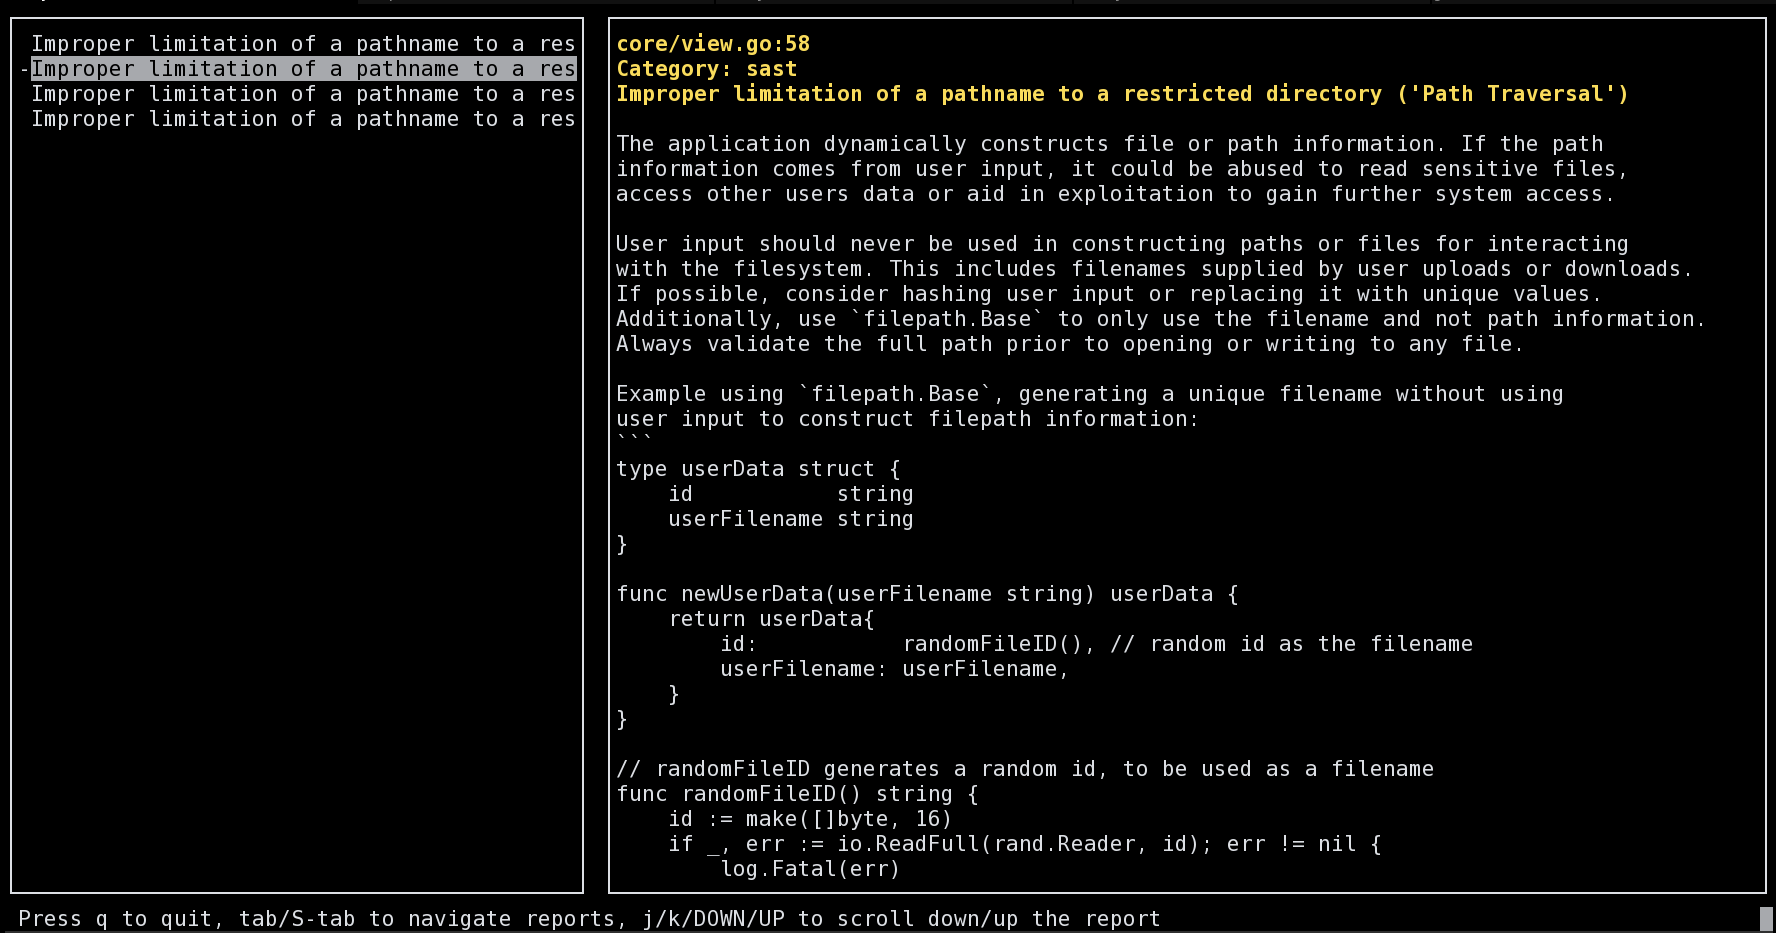
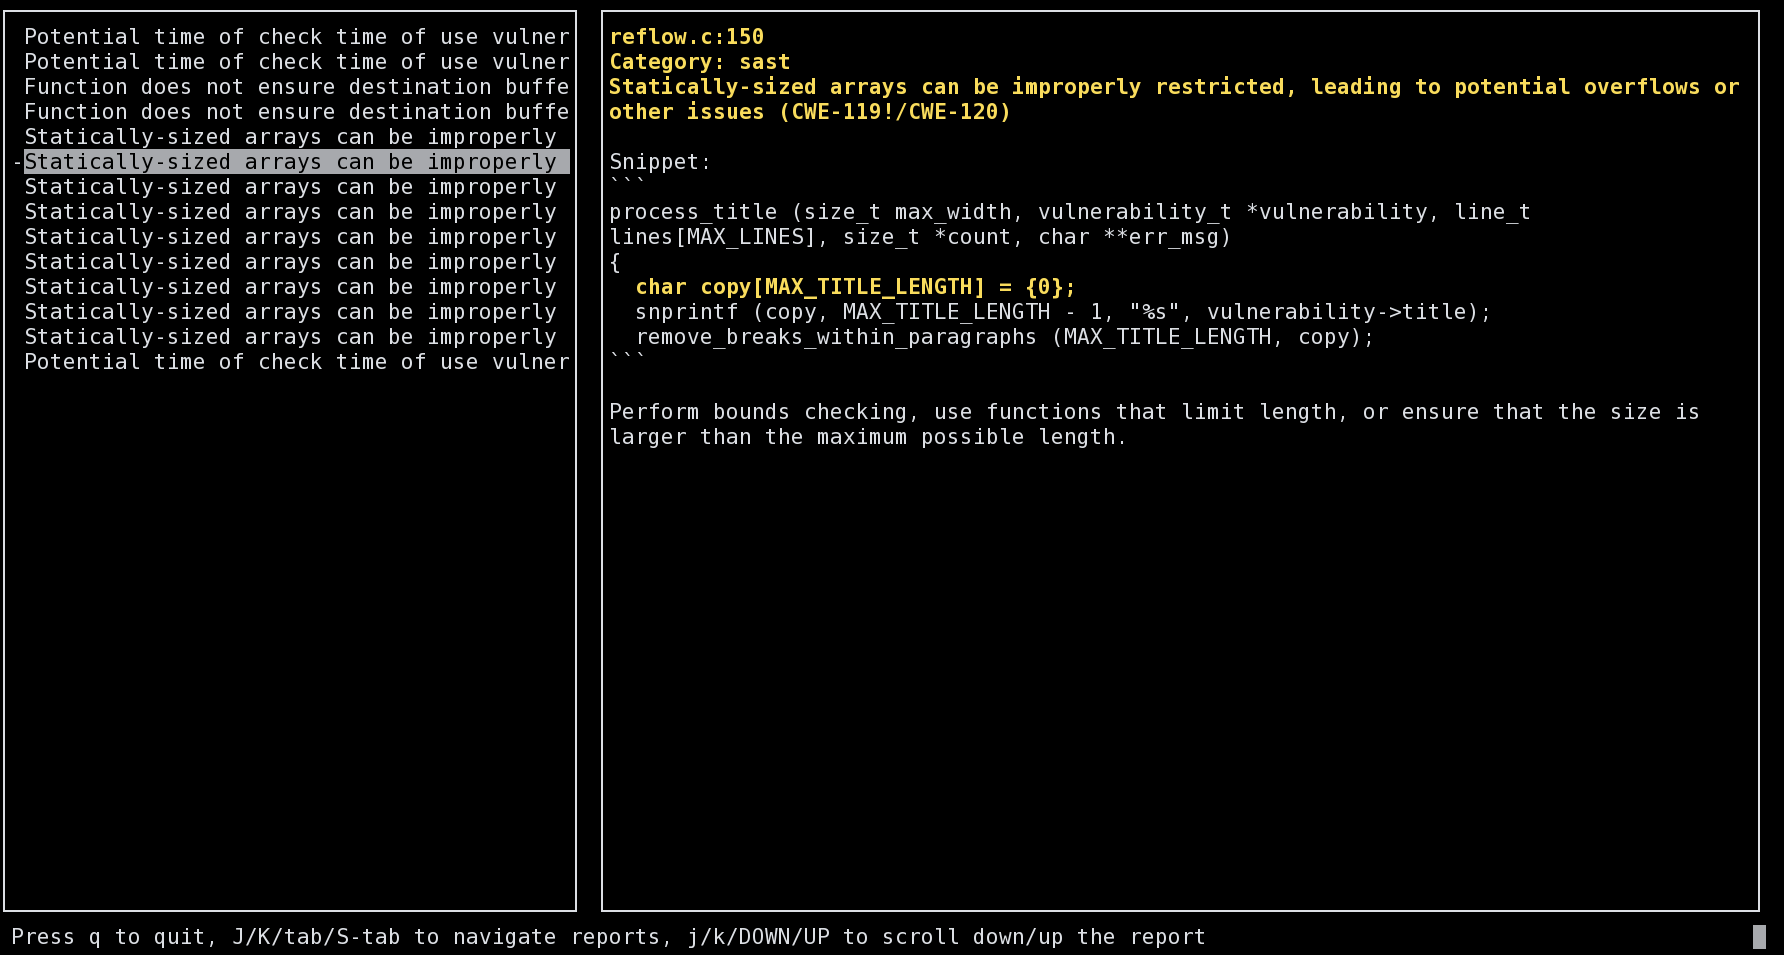
UPDATE documentation
Mention the snippet feature and update the screenshot.

diff --git a/main.c b/main.c
@@ -13,7 +13,10 @@ usage (const char *progname)
 Brings a ncurses interface to inspect Gitlab's SAST reports. \n\
 \n\
 You must provide a path to a downloaded JSON report. \n\
-  ", progname);
+If you execute %s within the analyzed codebase's directory, \n\
+you will see snippets of the code related to each report. You \n\
+must be at the root of that directory for this to happen. \n\
+  ", progname, progname);
 }
 
 int

diff --git a/README.md b/README.md
@@ -41,6 +41,9 @@ sasty [-h|--help] <file>
 Brings a ncurses interface to inspect Gitlab's SAST reports. 
 
 You must provide a path to a downloaded JSON report. 
+If you execute sasty within the analyzed codebase's directory, 
+you will see snippets of the code related to each report. You 
+must be at the root of that directory for this to happen. 
 ```
 
 ## Compatibility?
